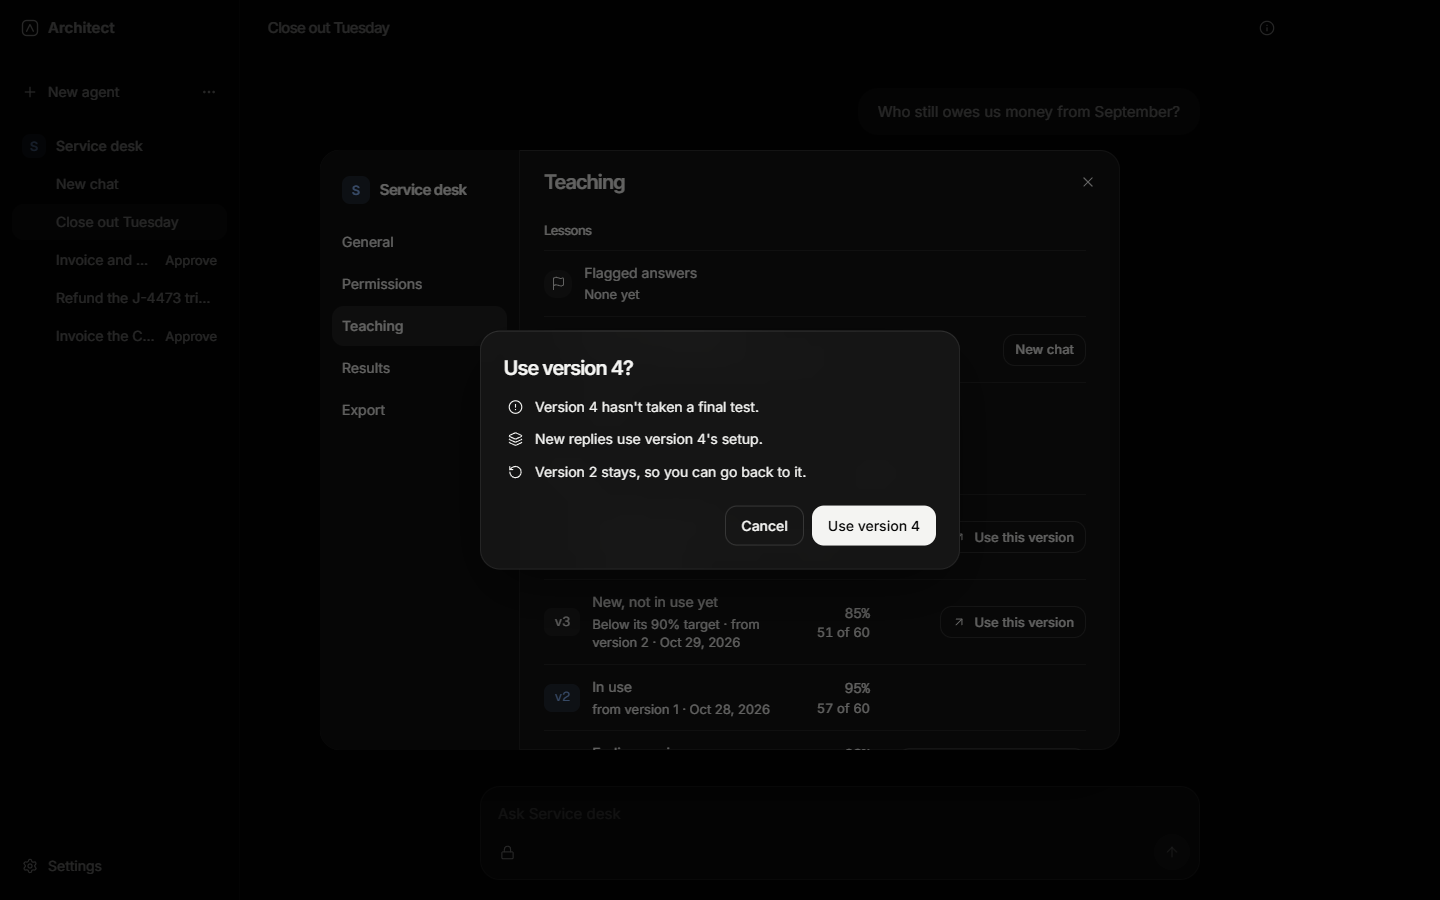
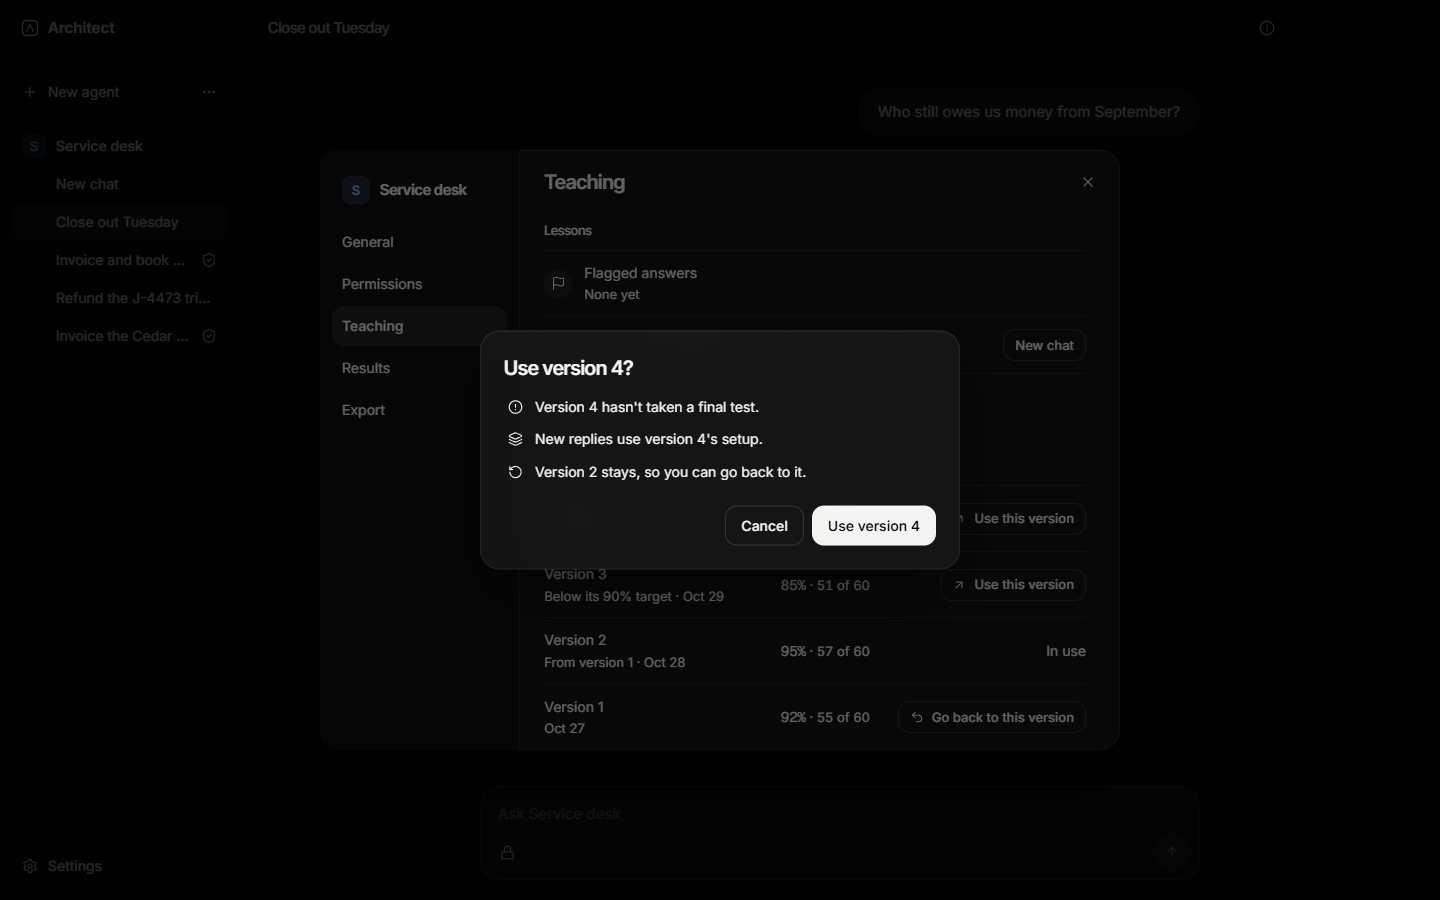
feat(desktop): name version rows by number, with the score and the move
Each row is "Version 3": its final test on one line ("85% · 51 of 60")
or "No test", then its button, or "In use" or "Set aside" where there is
none. The standing words ("New, not in use yet", "Earlier version") go.
Under the title, two facts: why its final test fell short or what it was
made from, then a short date.

diff --git a/apps/desktop/src/renderer/src/workspace/settings/TeachingTab.tsx b/apps/desktop/src/renderer/src/workspace/settings/TeachingTab.tsx
@@ -1,9 +1,10 @@
 import { useState } from 'react';
 import type { GraduateSummary, GraduateVersion } from '@architect/shared';
-import { Button, SettingsRow, SettingsSection, Skeleton, VersionTag } from '@architect/ui';
+import { Button, SettingsRow, SettingsSection, SettingsValue, Skeleton } from '@architect/ui';
 import { ArrowUpRight, Undo2 } from 'lucide-react';
 import { useVersions } from '../../api/graduates';
 import { ProblemState } from '../../components/ProblemState';
+import { shortDate } from '../../flow/format';
 import { formatPercent } from '../../lib/format';
 import { LessonsSection } from '../teach/LessonsSection';
 import { MoveDialog } from './MoveDialog';
@@ -12,7 +13,6 @@ import {
   MOVE_WORDS,
   moveFor,
   standing,
-  versionDate,
   versionOrigin,
   versionScore,
   type VersionMove,
@@ -20,16 +20,15 @@ import {
 
 /**
  * Teaching: what the agent is being taught (flagged answers, teaching it something new, and
- * Improve), then its versions, newest first. Each version says whether it is the one in use, how
- * its own final test came out, what it was made from and when, and can be used, or gone back to,
- * after a confirmation that says what changes.
+ * Improve), then its versions, newest first. Each version says how its own final test came out,
+ * what it was made from and when, and either that it is the one in use or set aside, or a button
+ * to use it, or go back to it, after a confirmation that says what changes.
  */
 export function TeachingTab({ agent }: { agent: GraduateSummary }) {
   const versions = useVersions(agent.id);
   const [move, setMove] = useState<{ version: GraduateVersion; kind: VersionMove } | null>(null);
   const list = versions.data;
   const active = list?.find((version) => version.active) ?? null;
-  const scored = list?.some((version) => versionScore(version) !== null) ?? false;
 
   return (
     <>
@@ -38,7 +37,8 @@ export function TeachingTab({ agent }: { agent: GraduateSummary }) {
         title="Versions"
         actions={
           // Names the score column: it ends where the scores do, left of the buttons' slot.
-          scored && <span className="mr-[184px] text-small text-fg">Final test</span>
+          list &&
+          list.length > 0 && <span className="mr-[216px] text-small text-fg">Final test</span>
         }
       >
         {list ? (
@@ -47,7 +47,6 @@ export function TeachingTab({ agent }: { agent: GraduateSummary }) {
               <VersionRow
                 key={version.version}
                 version={version}
-                active={active?.version ?? null}
                 move={moveFor(version, active?.version ?? null)}
                 onMove={(kind) => setMove({ version, kind })}
               />
@@ -96,46 +95,46 @@ function VersionSkeleton() {
 
 function VersionRow({
   version,
-  active,
   move,
   onMove,
 }: {
   version: GraduateVersion;
-  /** The version in use, for what the others are to it. */
-  active: number | null;
   move: VersionMove | null;
   onMove: (kind: VersionMove) => void;
 }) {
   const score = versionScore(version);
-  // The label says what the version is to the agent. A score that fell short, or is missing,
-  // says so under it; one that passed has nothing to add to the score beside it.
-  const meta = [
-    version.evaluation === 'ready' ? null : evaluationNote(version),
-    versionOrigin(version),
-    versionDate(version.createdAt),
-  ]
-    .filter(Boolean)
-    .join(' · ');
+  // Two facts under the title, so the line fits: why its final test fell short, or else what it
+  // was made from; then when.
+  const meta = capitalized(
+    [
+      version.evaluation === 'experimental' ? evaluationNote(version) : versionOrigin(version),
+      shortDate(version.createdAt),
+    ]
+      .filter(Boolean)
+      .join(' · '),
+  );
+  const word = standing(version);
 
   return (
     <li aria-label={`Version ${version.version}`}>
-      <SettingsRow
-        icon={<VersionTag version={version.version} active={version.active} />}
-        label={standing(version, active)}
-        meta={meta}
-      >
+      <SettingsRow label={`Version ${version.version}`} meta={meta}>
         <div className="flex items-center gap-4">
-          {score && (
-            <span className="flex flex-col items-end whitespace-nowrap tabular-nums">
-              <span className="font-mono">{formatPercent(score)}</span>
-              <span className="text-small text-fg">
-                {score.pass} of {score.total}
-              </span>
-            </span>
-          )}
+          <span className="whitespace-nowrap tabular-nums">
+            {score ? (
+              <>
+                <span className="font-mono">{formatPercent(score)}</span>
+                <span className="text-small">
+                  {' '}
+                  · {score.pass} of {score.total}
+                </span>
+              </>
+            ) : (
+              'No test'
+            )}
+          </span>
           {/* The same width on every row, so the scores line up whether or not a row has one. */}
           <div className="flex w-[200px] shrink-0 justify-end">
-            {move !== null && (
+            {move !== null ? (
               <Button size="xs" onClick={() => onMove(move)}>
                 {move === 'promote' ? (
                   <ArrowUpRight size={14} strokeWidth={1.8} aria-hidden />
@@ -144,10 +143,16 @@ function VersionRow({
                 )}
                 {MOVE_WORDS[move].action}
               </Button>
+            ) : (
+              word !== null && <SettingsValue>{word}</SettingsValue>
             )}
           </div>
         </div>
       </SettingsRow>
     </li>
   );
+}
+
+function capitalized(text: string): string {
+  return text.charAt(0).toUpperCase() + text.slice(1);
 }

diff --git a/apps/desktop/e2e/versions.spec.ts b/apps/desktop/e2e/versions.spec.ts
@@ -189,10 +189,11 @@ test('promotes a candidate and rolls back, each after saying what changes', asyn
   await expect(row(2)).toContainText('In use');
   await expect(row(2)).toContainText('95%');
   await expect(row(2)).toContainText('57 of 60');
-  await expect(row(3)).toContainText('New, not in use yet');
-  await expect(row(3)).toContainText('Below its 90% target · from version 2');
-  await expect(row(4)).toContainText('No final test yet · from version 2, imported');
-  await expect(row(1)).toContainText('Earlier version');
+  // Each row is named by its number; a version with a move says what it is by its button.
+  await expect(row(3)).not.toContainText('New, not in use yet');
+  await expect(row(3)).toContainText('Below its 90% target · Oct');
+  await expect(row(4)).toContainText('No test');
+  await expect(row(4)).toContainText('From version 2, imported');
   await expect(row(1)).toContainText('55 of 60');
   await expect(dialog.getByRole('region', { name: 'Versions' })).toContainText('Final test');
   await expect(row(1).getByRole('button', { name: 'Go back to this version' })).toBeVisible();
@@ -219,7 +220,7 @@ test('promotes a candidate and rolls back, each after saying what changes', asyn
   await promote.getByRole('button', { name: 'Use version 3' }).click();
   await expect(promote).toBeHidden();
   await expect(row(3)).toContainText('In use');
-  await expect(row(2)).toContainText('Earlier version');
+  await expect(row(2).getByRole('button', { name: 'Go back to this version' })).toBeVisible();
   expect(await callsTo(app, 'graduates:acceptVersion')).toEqual([[AGENT.id, 3]]);
   expect(await callsTo(app, 'graduates:promote')).toEqual([[AGENT.id, 3]]);
 

diff --git a/apps/desktop/test/unit/workspace/versions.test.ts b/apps/desktop/test/unit/workspace/versions.test.ts
@@ -73,12 +73,12 @@ describe('version moves', () => {
     );
   });
 
-  it('names what each version is to the agent, and each move in plain words', () => {
-    expect(standing(version({ version: 2, active: true }), 2)).toBe('In use');
-    expect(standing(version({ version: 4, state: 'candidate' }), 2)).toBe('New, not in use yet');
-    expect(standing(version({ version: 3 }), 2)).toBe('Newer, not in use');
-    expect(standing(version({ version: 1 }), 2)).toBe('Earlier version');
-    expect(standing(version({ version: 5, state: 'rejected' }), 2)).toBe('Set aside');
+  it('names a version with no move, and each move in plain words', () => {
+    expect(standing(version({ version: 2, active: true }))).toBe('In use');
+    expect(standing(version({ version: 5, state: 'rejected' }))).toBe('Set aside');
+    // The rest have a button, which says what they are to the agent.
+    expect(standing(version({ version: 4, state: 'candidate' }))).toBeNull();
+    expect(standing(version({ version: 1 }))).toBeNull();
     expect(MOVE_WORDS.promote.action).toBe('Use this version');
     expect(MOVE_WORDS.rollback.action).toBe('Go back to this version');
     expect(MOVE_WORDS.promote.title(3)).toBe('Use version 3?');

diff --git a/apps/desktop/src/renderer/src/workspace/settings/versions.ts b/apps/desktop/src/renderer/src/workspace/settings/versions.ts
@@ -29,12 +29,14 @@ export const MOVE_WORDS: Record<
   },
 };
 
-/** What a version is to the agent: the one in use, a new one waiting, or an older or newer one. */
-export function standing(version: GraduateVersion, active: number | null): string {
+/**
+ * What a version with no move is to the agent, in the move's place: the one in use, or one set
+ * aside. Null for the rest, whose button says what they are to it.
+ */
+export function standing(version: GraduateVersion): string | null {
   if (version.active) return 'In use';
-  if (version.state === 'candidate') return 'New, not in use yet';
   if (version.state === 'rejected') return 'Set aside';
-  return active !== null && version.version > active ? 'Newer, not in use' : 'Earlier version';
+  return null;
 }
 
 /**
